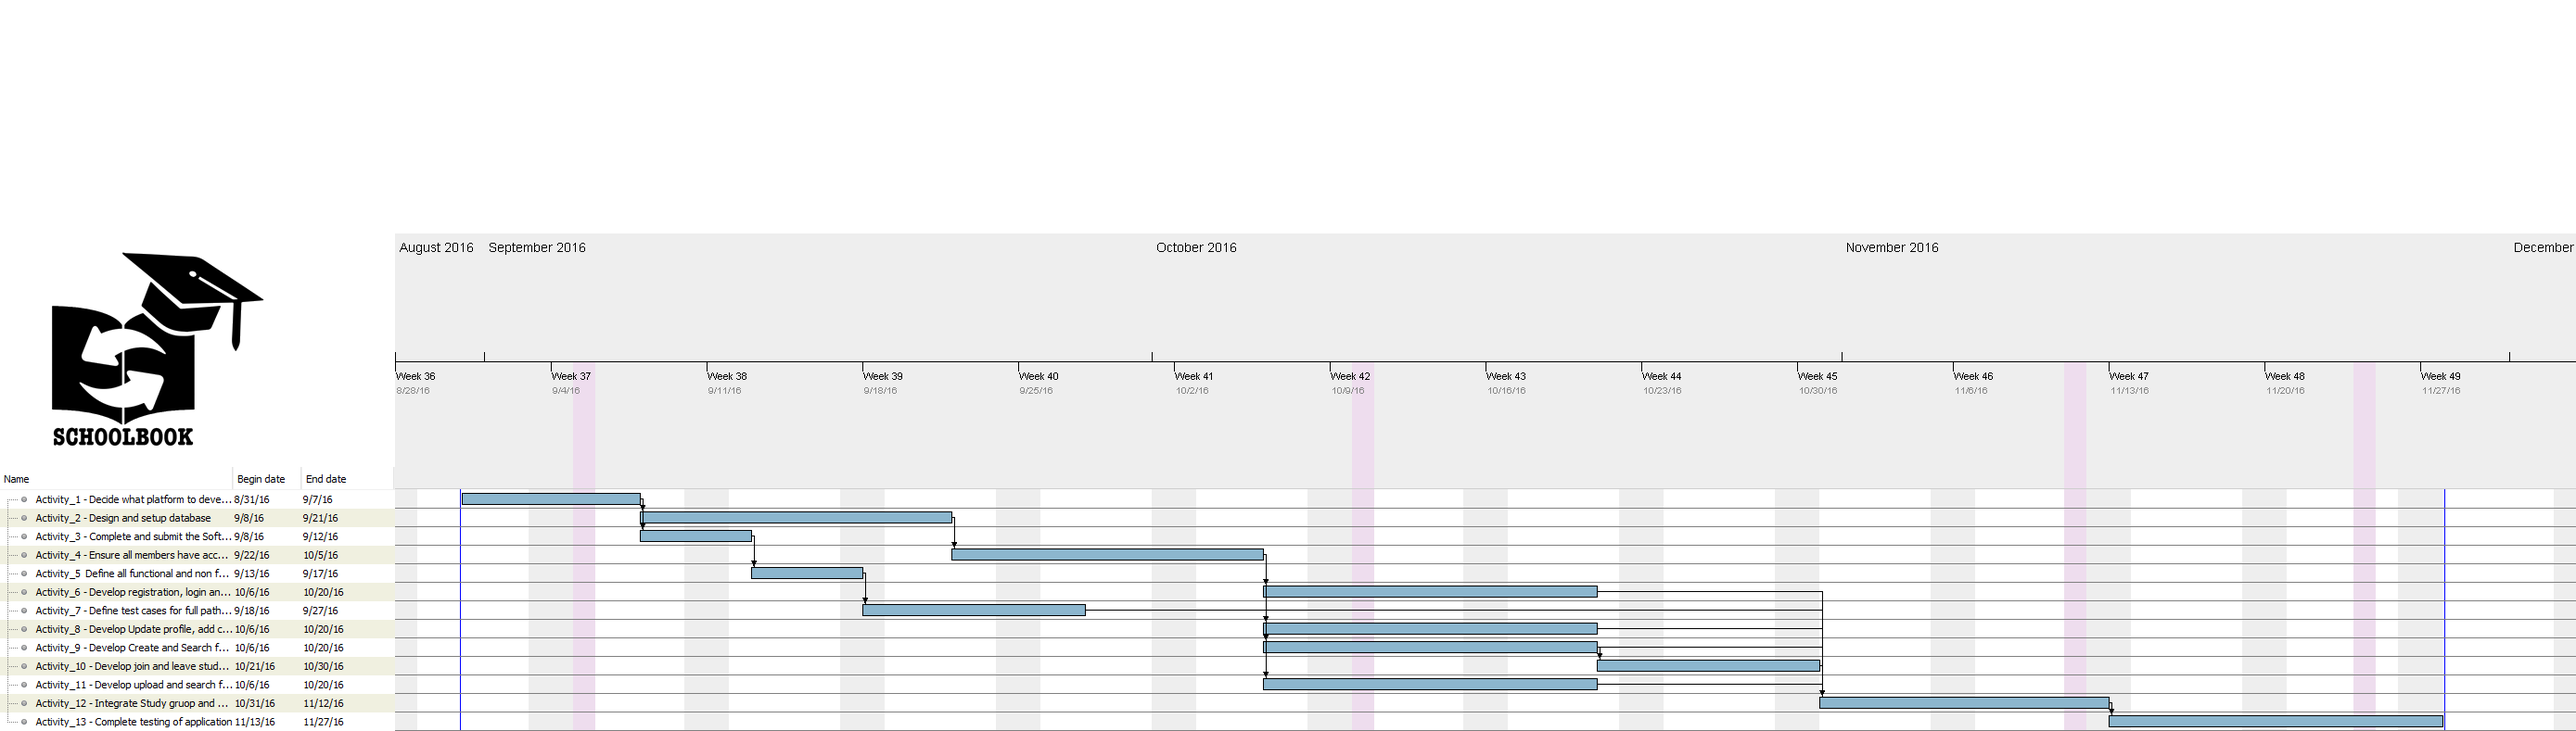
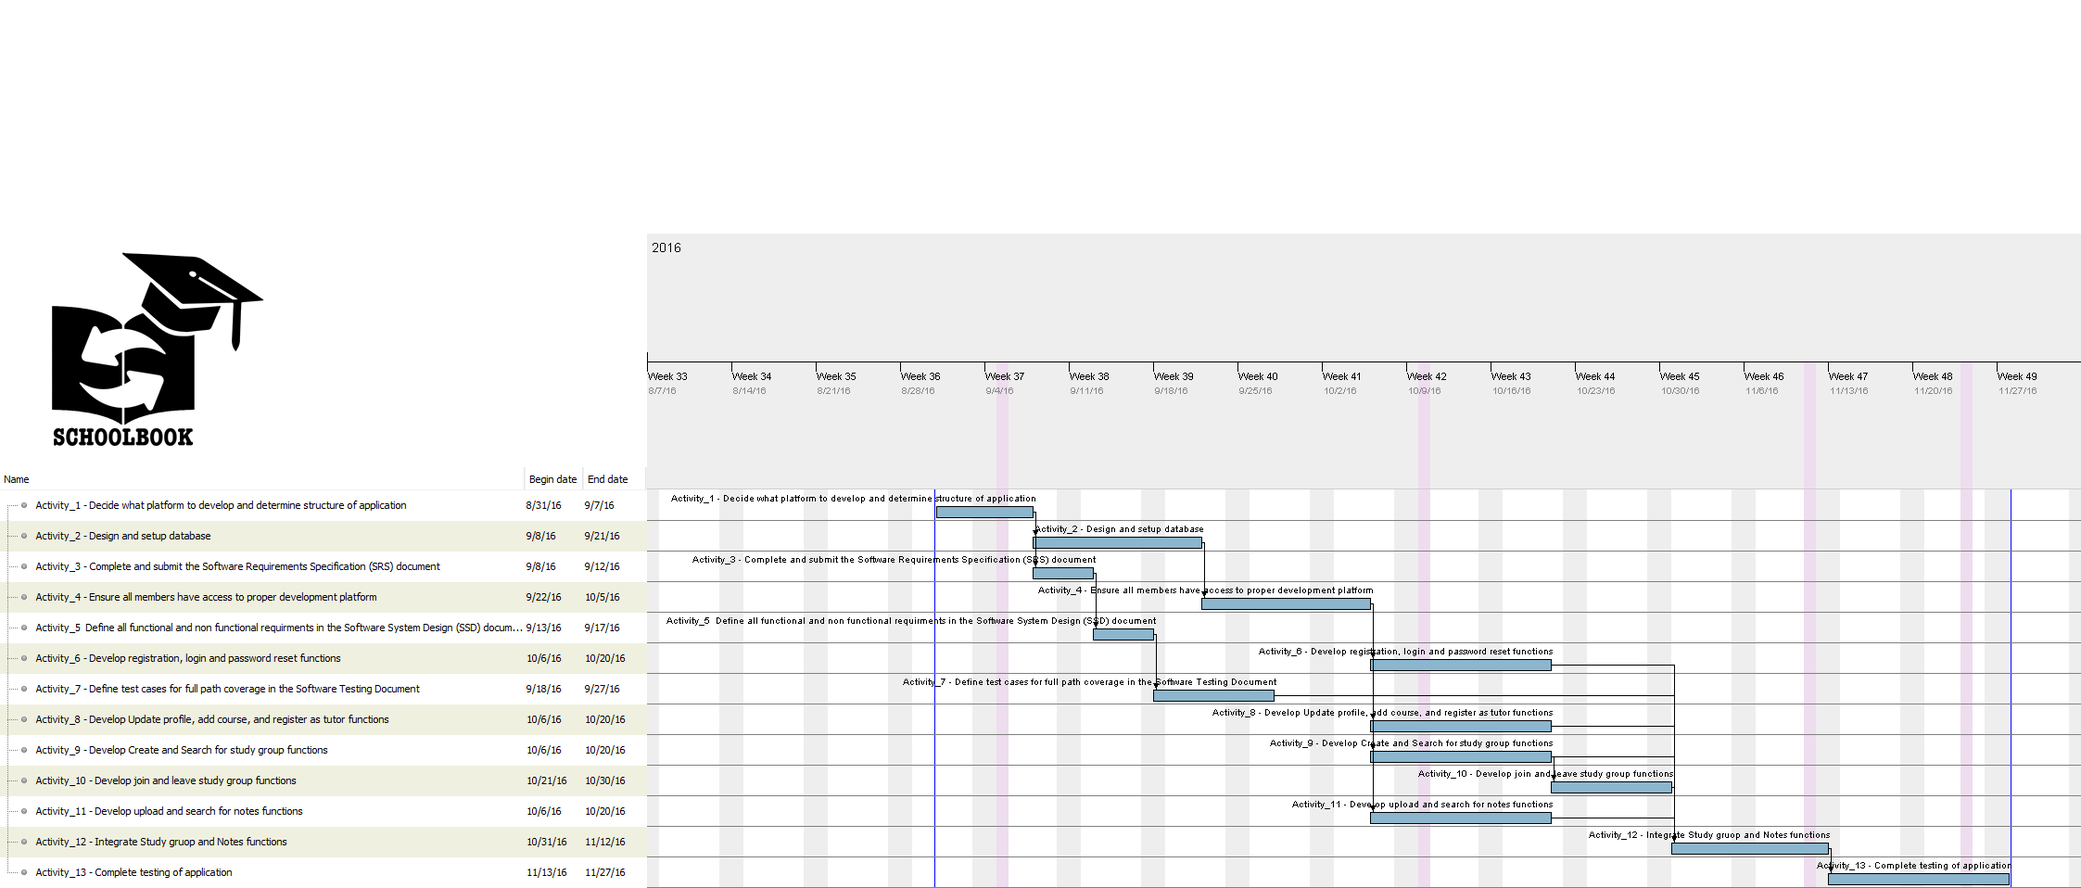
Update to section 7 and Gantt chart

diff --git a/ProjectManagementDocument.md b/ProjectManagementDocument.md
@@ -190,10 +190,10 @@ We chose to have a egoless group structure for the Schoolbook project. We chose 
 5. Define all functional and non functional requirments in the Software System Design (SSD) document, completed 9/2/2016.
 6. Develop registration, login and password reset functions, completed 9/7/2016.
 7. Define test cases for full path coverage in the Software Testing Document, completed 9/21/2016. 
-8. Develop Update profile, add course, and register as tutor functions, completed ...
-9. Develop Create and Search for study group functions, completed ...
-10. Develop join and leave study group functions, completed ...
-11. Develop upload and search for notes functions, completed ...
+8. Develop Update profile, add course, and register as tutor functions, completed 10/20/2016.
+9. Develop Create and Search for study group functions, completed 10/20/2016.
+10. Develop join and leave study group functions, completed 10/20/2016.
+11. Develop upload and search for notes functions, completed 10/20/2016.
 12. Integrate profile, study group, and notes functions into the system, completed 11/28/2016.
 13. Application presentation and demo for class and industry, completed 11/28/2016.
 
@@ -203,14 +203,14 @@ We chose to have a egoless group structure for the Schoolbook project. We chose 
 | Task Description	| Activity Label	| Tasks Precedence	| Expected Duration	(Weeks)	|
 |-------------------|-------------------|-------------------|---------------------------|
 | Decide what platform to develop, and determine structure of applicaton	| A	| None	| 1 |
-| Design and setup database	| B	| A	| 1	|
-| Ensure all members have access to proper development platcorm	| C	| A	|1.5 |
+| Design and setup database	| B	| A	| 2	|
+| Ensure all members have access to proper development platform	| C	| A	| 2 |
 | Develop registration, login and password reset functions	| D	| C, B	|  2 |
 | Develop Update profile, add course, and register as tutor functions	| E	| C, B	| 2 |
 | Develop Create and Search for study group functions	| F	| C, B	| 2 |
-| Develop join and leave study group functions	| G	| B, C, D	| 1 |
+| Develop join and leave study group functions	| G	| B, C, D	| 1.5 |
 | Develop upload and search for notes functions	| H | B, C	| 2 |
-| Integrate Study gruop and Notes functions	| I	| F, G, H	| 1 |
+| Integrate Study gruop and Notes functions	| I	| F, G, H	| 1.8 |
 | Complete testing of application	| J	| I	| 2 |
 
 
